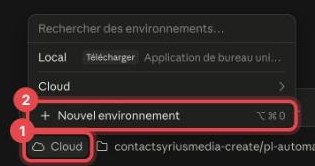
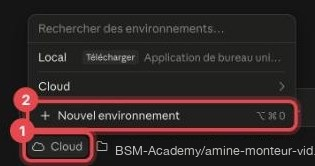
GitHub fusionné avec la création de l'environnement ; capture Nouvel environnement sans le compte perso

Changed region(s): [[0.3429, 0.8434, 1.0, 0.9337]]

diff --git a/index.html b/index.html
@@ -231,28 +231,22 @@ summary{cursor:pointer;font-weight:700}
     <a class="lien" href="https://vmake.ai/developers" target="_blank" rel="noopener">Ouvrir Vmake</a>
   </section>
 
-  <!-- Claude -->
-  <section class="ecran" data-bouton="C'est fait">
-    <span class="partie">Claude</span>
-    <h2>Connecte Claude à GitHub</h2>
-    <ol>
-      <li>Ouvre claude.ai/code (bouton 1 en bas). La première fois, Claude te propose de <b>connecter GitHub</b> : accepte. S'il ne te propose rien, c'est que c'est déjà fait : clique sur « C'est fait ».</li>
-      <li>GitHub te demande où installer Claude : laisse <b>All repositories</b> coché, comme ici, puis clique sur le bouton vert <b>Install</b>. Si tu ne vois jamais cette page, ouvre-la avec le bouton 2.</li>
-    </ol>
-    <img class="capture" src="img/github-claude.jpg" alt="Réglage GitHub Repository access avec All repositories entouré">
-    <a class="lien" href="https://claude.ai/code" target="_blank" rel="noopener">1. Ouvrir claude.ai/code</a>
-    <a class="lien" href="https://github.com/apps/claude/installations/new" target="_blank" rel="noopener">2. Installer Claude sur GitHub</a>
-  </section>
-
   <section class="ecran" data-bouton="La fenêtre est ouverte">
     <span class="partie">Ton atelier · 1/3</span>
-    <h2>Crée ton environnement</h2>
-    <p>L'environnement, c'est l'atelier où Amine travaille. Sur <a href="https://claude.ai/code" target="_blank" rel="noopener">claude.ai/code</a>, tout en bas sous la zone de message :</p>
-    <img class="capture etroite" src="img/env-nouveau.jpg" alt="Bouton Cloud et menu Nouvel environnement entourés">
+    <h2>Ouvre Claude et crée ton environnement</h2>
+    <p>L'environnement, c'est l'atelier où Amine travaille. Tout se passe sur claude.ai/code (bouton 1 en bas) :</p>
     <ol>
+      <li>La première fois, Claude te propose de <b>connecter GitHub</b> : accepte. GitHub te demande où installer Claude : laisse <b>All repositories</b> coché, puis clique sur le bouton vert <b>Install</b>. S'il ne te propose rien, c'est déjà fait. Si ça bloque, utilise le bouton 2.</li>
+    </ol>
+    <img class="capture" src="img/github-claude.jpg" alt="Réglage GitHub Repository access avec All repositories entouré">
+    <p>Ensuite, tout en bas sous la zone de message :</p>
+    <img class="capture etroite" src="img/env-nouveau.jpg" alt="Bouton Cloud et menu Nouvel environnement entourés">
+    <ol start="2">
       <li>Clique sur le bouton avec le <b>petit nuage</b>.</li>
       <li>Clique sur <b>Nouvel environnement</b>.</li>
     </ol>
+    <a class="lien" href="https://claude.ai/code" target="_blank" rel="noopener">1. Ouvrir claude.ai/code</a>
+    <a class="lien" href="https://github.com/apps/claude/installations/new" target="_blank" rel="noopener">2. Installer Claude sur GitHub</a>
   </section>
 
   <section class="ecran" data-bouton="C'est fait">
@@ -364,7 +358,7 @@ BASH_MAX_TIMEOUT_MS=1800000</pre><button class="copier" data-cible="variables">C
     <details><summary>Claude dit qu'une variable est « MANQUANTE »</summary><p>Revois l'écran « Les réglages » de ton atelier, puis démarre une <b>nouvelle</b> session.</p></details>
     <details><summary>Erreur 401 ou « invalid api key »</summary><p>La clé de ce service est fausse. Supprime son secret dans le coffre et ajoute-le à nouveau. ElevenLabs : la clé commence par <code>sk_</code>.</p></details>
     <details><summary>Erreur 402, « insufficient credit » ou quota</summary><p>Le compte de ce service n'a plus de crédit : recharge-le.</p></details>
-    <details><summary>Claude ne voit pas mon dépôt</summary><p>Refais l'écran « Connecte Claude à GitHub ».</p></details>
+    <details><summary>Claude ne voit pas mon dépôt</summary><p>Refais l'écran « Ouvre Claude et crée ton environnement » (bouton 2 : installer Claude sur GitHub, avec <b>All repositories</b>).</p></details>
     <details><summary>Ma vidéo ne s'ajoute pas (trop lourde)</summary><p>Réduis-la avant (par exemple avec HandBrake, gratuit), ou demande à ton formateur.</p></details>
   </section>
 
